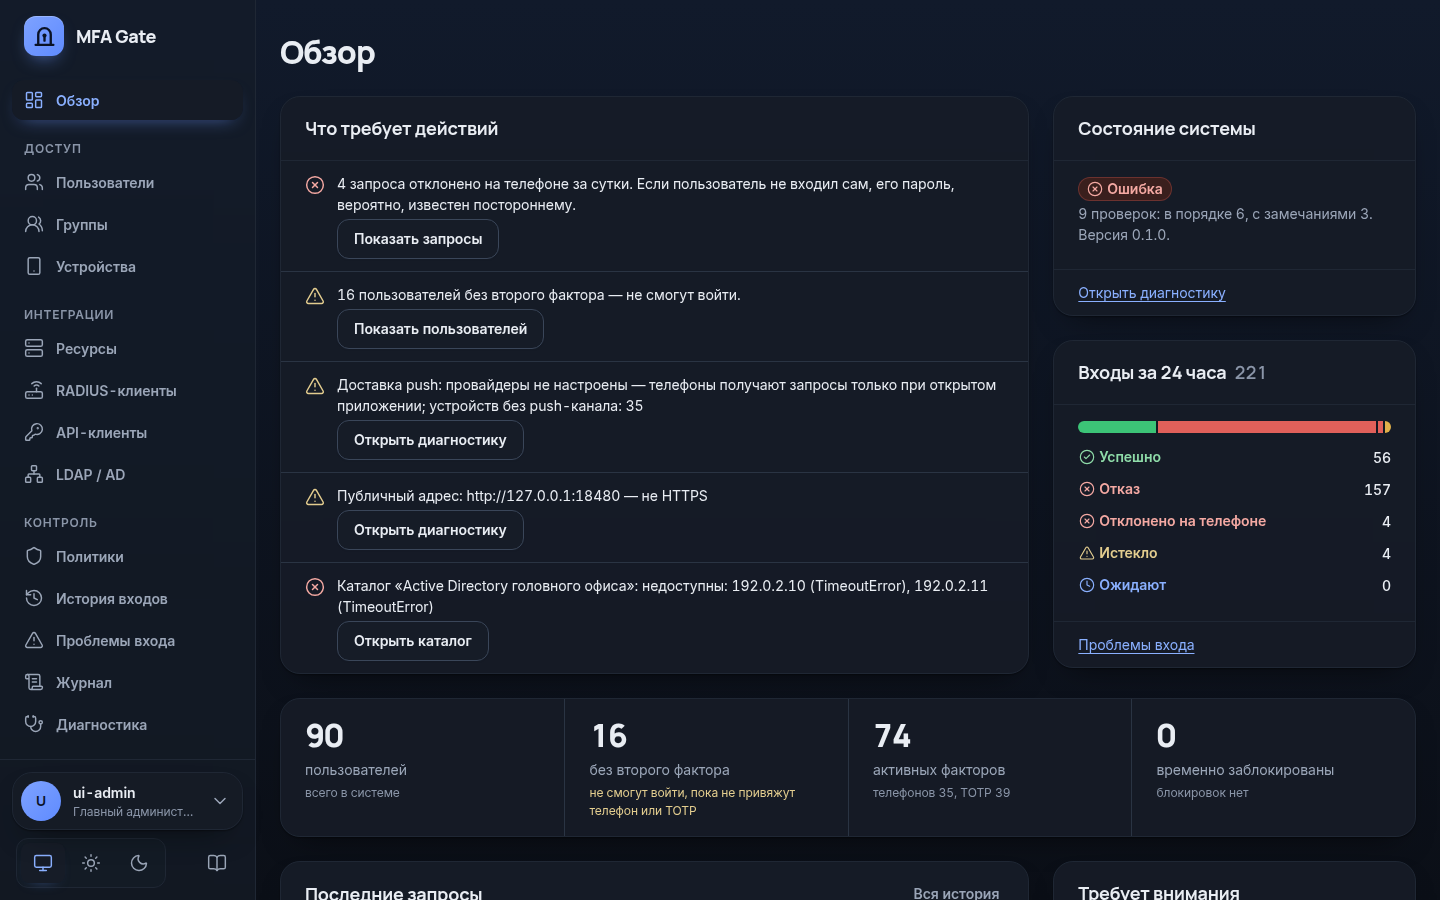
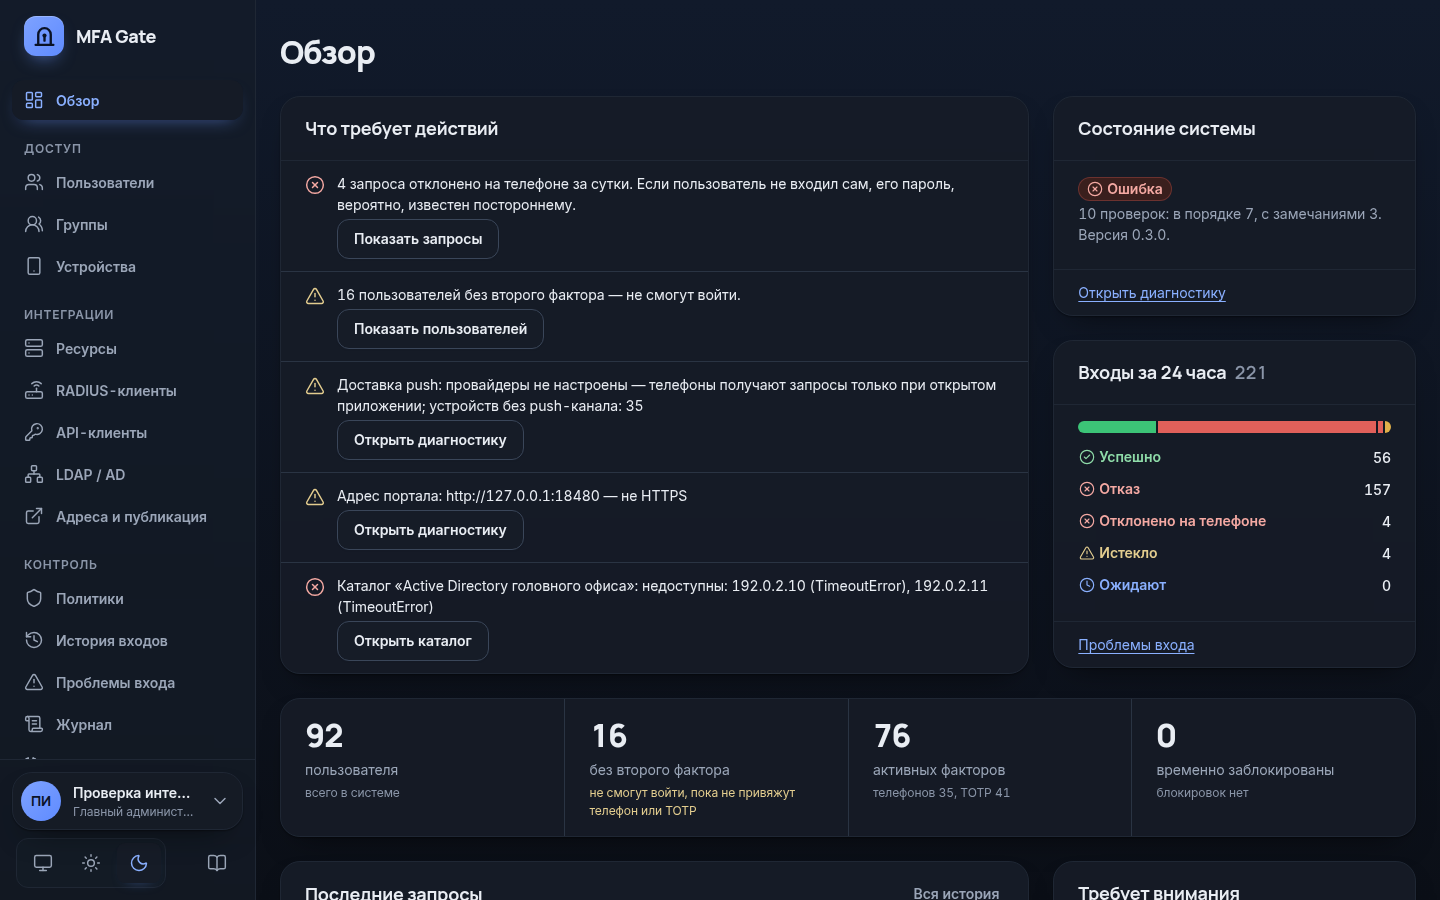
README: личный кабинет, два адреса, экраны 0.3.0; английская версия

diff --git a/README.en.md b/README.en.md
@@ -14,17 +14,19 @@ An employee types their password into the VPN client as usual and confirms the s
 
 ## Features
 
-- **RADIUS server**: PAP, Access-Challenge for one-time codes, mandatory Message-Authenticator (BlastRADIUS mitigation), gateway retransmissions deduplicated.
+- **Employee self-service portal** (`/`): domain sign-in, first-time setup wizard (TOTP by default or the phone app), backup codes, own devices, sign-in history, sessions. First setup only from company networks and only before the first factor; after a lost phone — with an admin re-enrollment permit. The admin panel lives at `/admin/`.
+- **RADIUS server**: PAP, Access-Challenge for one-time codes, mandatory Message-Authenticator (BlastRADIUS mitigation), gateway retransmissions deduplicated; per-client "gateway already checked the password" mode (Ideco NGFW "Login" / "Login and OTP").
 - **Push approval** in the MFA Gate Authenticator Android app; the decision is signed with an ECDSA P-256 key from Android Keystore after biometrics or PIN. The push carries only a request ID.
 - **TOTP** (RFC 6238), works offline in any authenticator app.
 - **Active Directory / LDAP**: multiple controllers, LDAPS/StartTLS, nested and allowed groups, step-by-step diagnostics.
 - **Policies** by resource and group (`mfa` / `allow` / `deny`), web admin panel with roles, sign-in history with reject reasons, audit log.
+- **Two addresses**: internal portal/admin and an external HTTPS address for phones (`MFA_GATE_DEVICE_URL`, only `/api/device/` is served there); the "Addresses and publishing" screen generates nginx/Caddy configs — see [docs/network.md](docs/network.md).
 - **REST API v1** with OpenAPI (`/api/docs`) and scoped API keys.
 - **One-command operations**: `sudo ./install.sh`; `mfagatectl` for updates with automatic rollback, backups, restore and diagnostics.
 
 ## Android app
 
-Two flavors, both on the [Releases](https://github.com/calleograph/mfa-gate/releases) page: `gms` (Firebase Cloud Messaging of your own Firebase project) and `foss` (no Google code; requests appear while the app is open). Android 8.0+.
+Two flavors, both on the [Releases](https://github.com/calleograph/mfa-gate/releases) page: `gms` (Firebase Cloud Messaging of your own Firebase project) and `foss` (no Google code; instant notifications through a permanent background connection). Android 8.0+.
 
 ## Requirements
 

diff --git a/README.md b/README.md
@@ -65,6 +65,10 @@ flowchart LR
 |---|---|---|
 | ![Обзор в тёмной теме](docs/images/overview-dark.png) | ![Карточка пользователя: телефоны, TOTP, последние входы](docs/images/user-card.png) | ![Панель на экране телефона](docs/images/mobile.png) |
 
+| Личный кабинет сотрудника | Адреса и публикация |
+|---|---|
+| ![Личный кабинет: способы входа, резервные коды, сеансы](docs/images/portal.png) | ![Адреса и публикация: компоненты, доступ, конфигурации прокси](docs/images/publication.png) |
+
 ## Android-приложение
 
 **MFA Gate Authenticator** — подтверждение входов и коды TOTP. Android 8.0 и новее, телефон с блокировкой экрана.
@@ -72,7 +76,7 @@ flowchart LR
 | Вариант | Для кого |
 |---|---|
 | `gms` | телефоны с сервисами Google, push через Firebase Cloud Messaging вашей организации — уведомление приходит, даже когда приложение закрыто |
-| `foss` | телефоны без сервисов Google; без кода Google. Запрос виден, когда приложение открыто |
+| `foss` | телефоны без сервисов Google; без кода Google. Мгновенные уведомления через постоянное соединение (постоянное уведомление «Ожидание запросов входа») |
 
 APK обоих вариантов и `SHA256SUMS` — на странице [Выпуски](https://github.com/calleograph/mfa-gate/releases). Привязка телефона — по одноразовому QR-коду из панели: [Регистрация Android-устройства](https://github.com/calleograph/mfa-gate/wiki/Регистрация-Android-устройства). Исходники и сборка: [android/](android/README.md).
 
